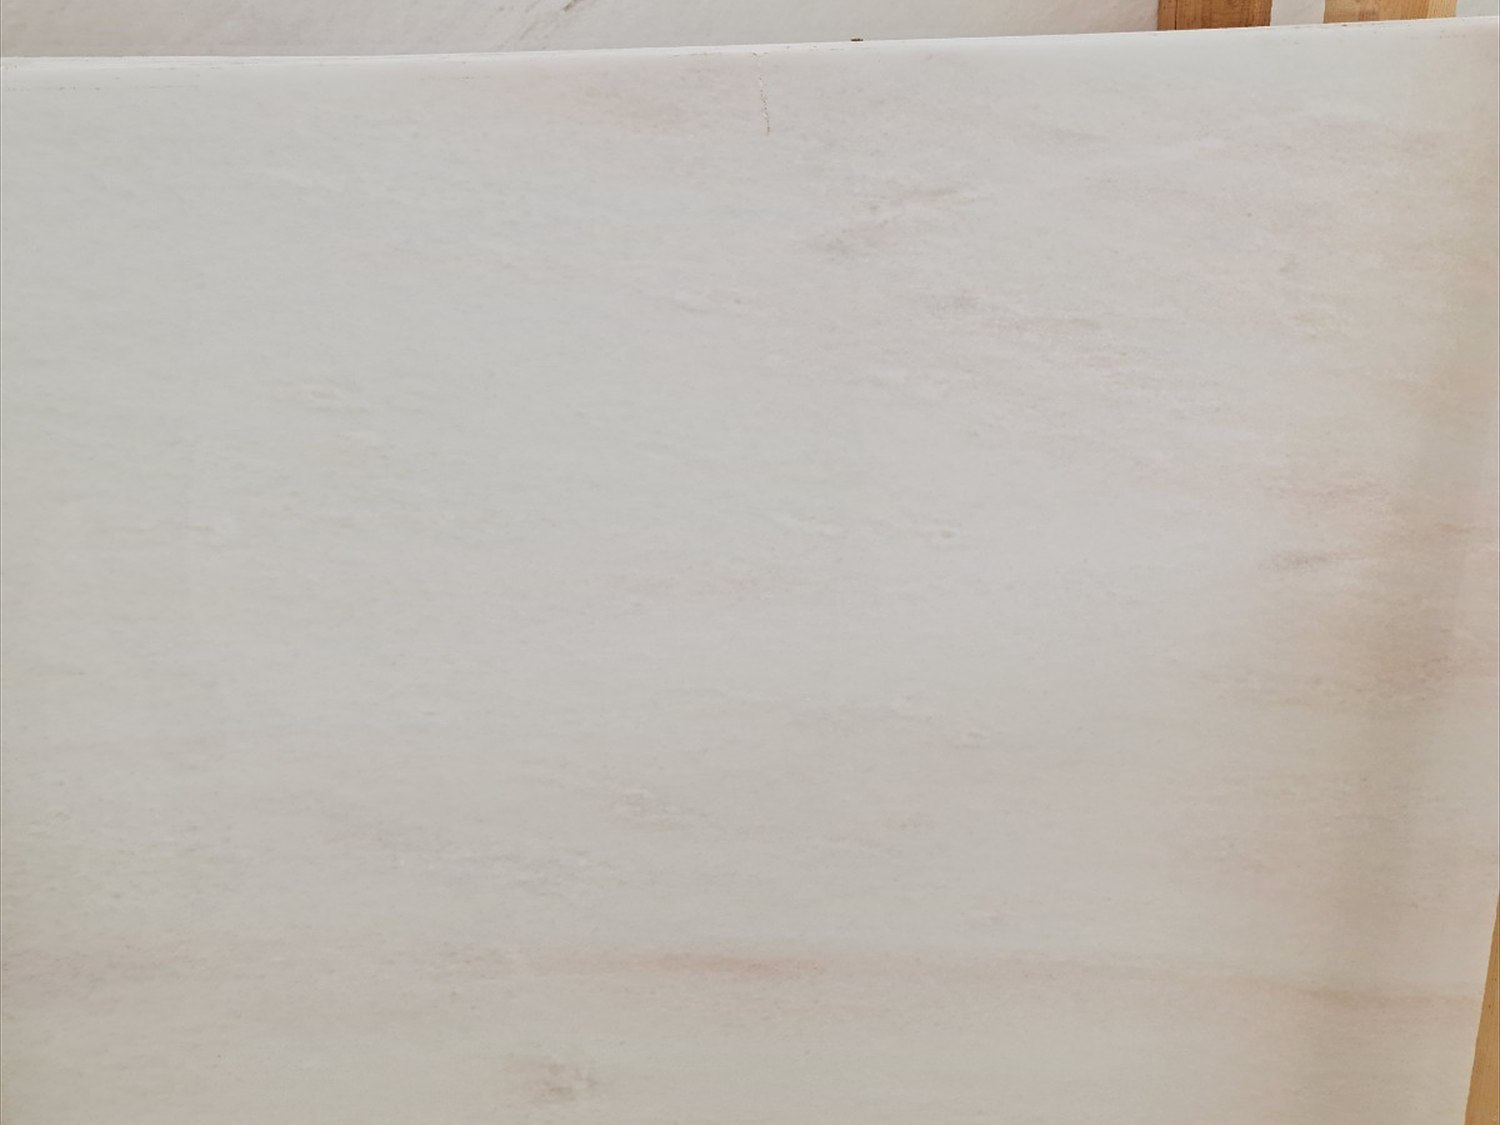
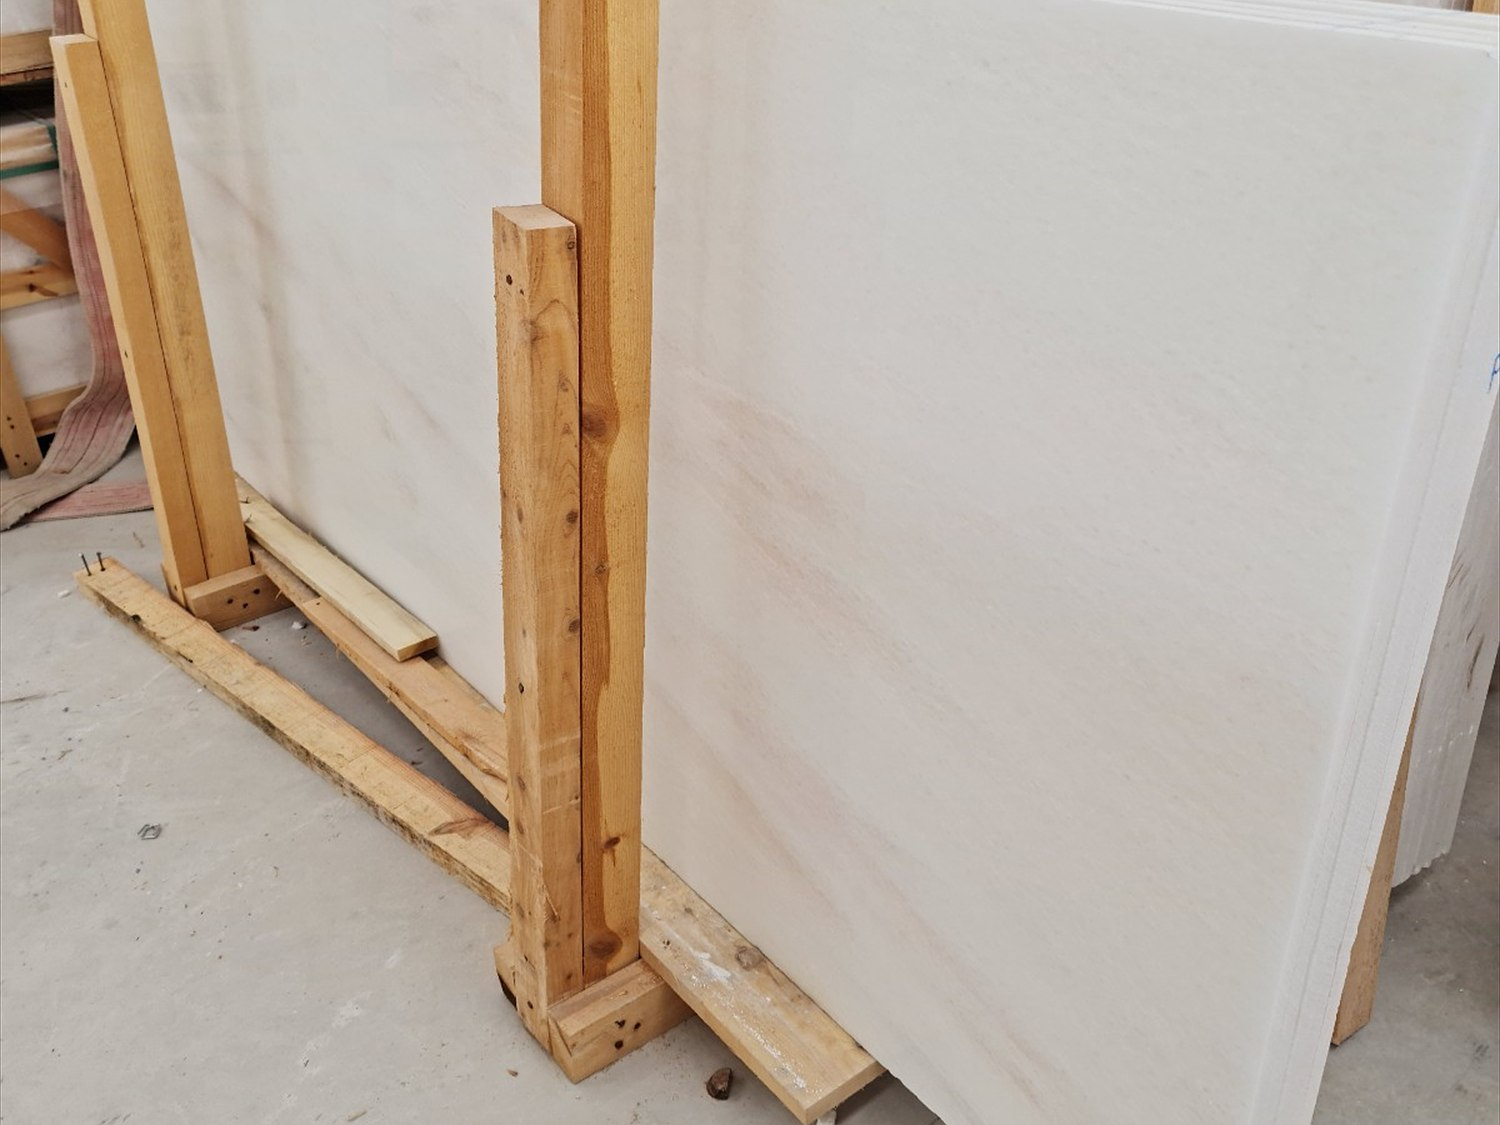
feat: Dreamed White main image swap; new authentic quarry inspection photo for Inspected step

diff --git a/index.html b/index.html
@@ -154,7 +154,7 @@
 
           <article class="story-step reveal">
             <figure class="story-media">
-              <img src="assets/img/story-quality.jpg" alt="Worker inspecting marble slabs in the plant" loading="lazy">
+              <img src="assets/img/story-quality.jpg" alt="Quarry team inspecting marble blocks for quality" loading="lazy">
             </figure>
             <div class="story-body">
               <span class="story-num" aria-hidden="true">03</span>
